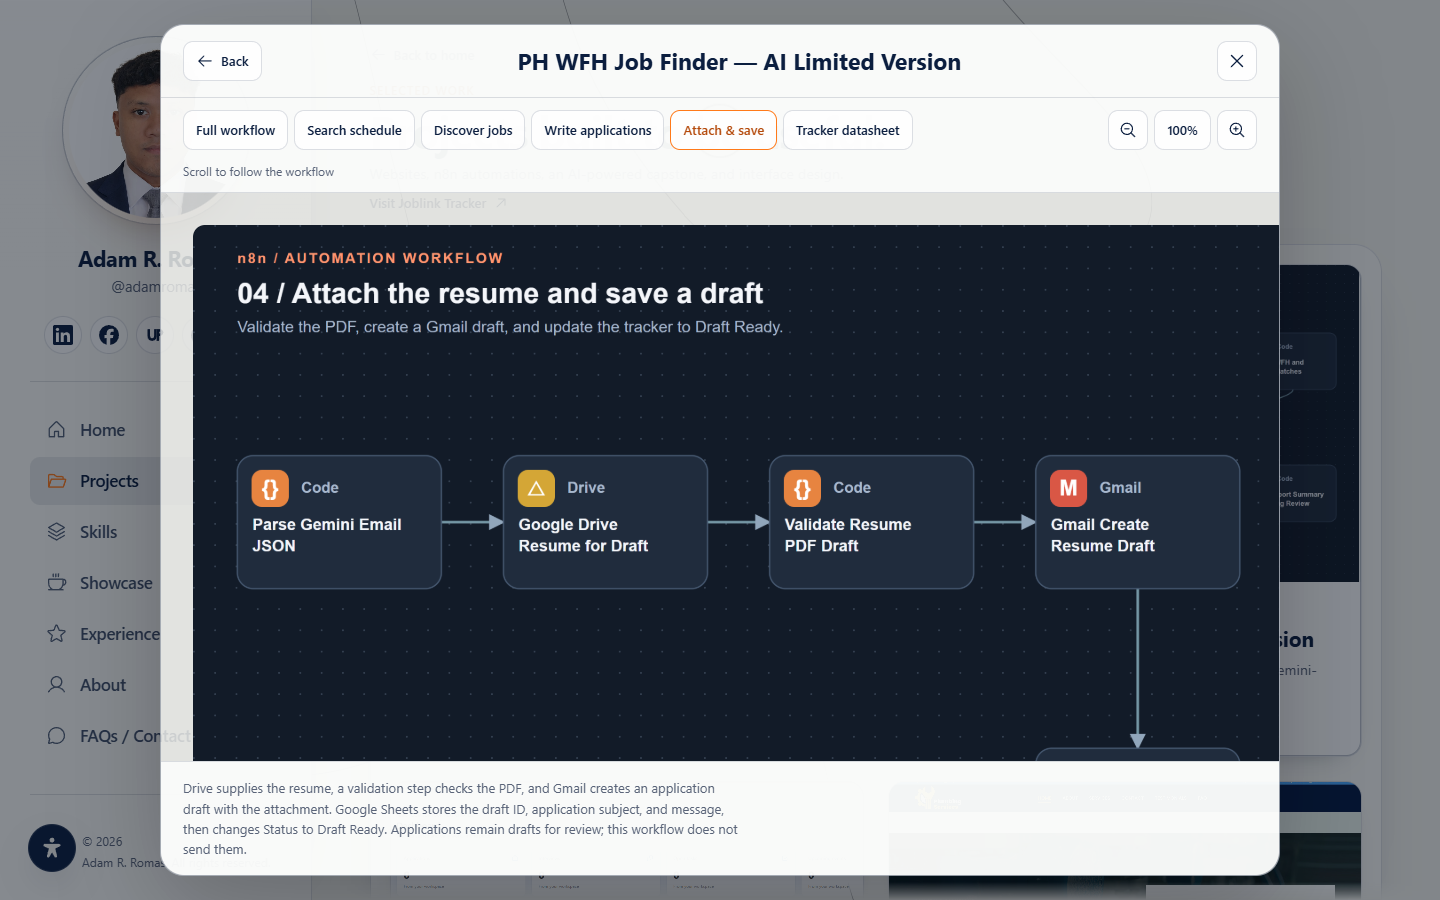
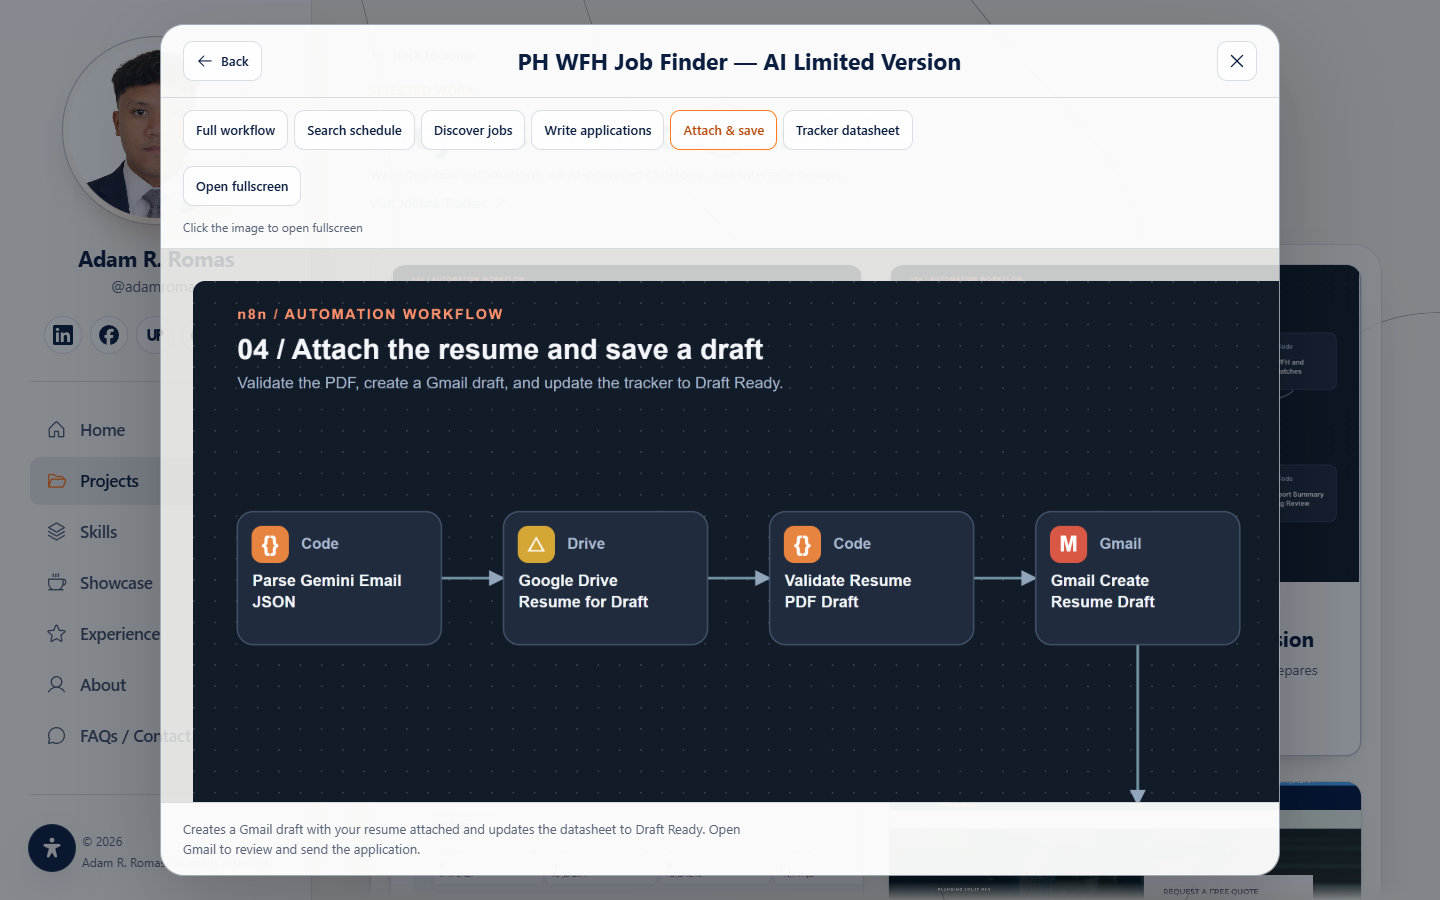
Add fullscreen image viewer with transparent backdrop and pointer zoom

diff --git a/src/components/ImageLightbox.tsx b/src/components/ImageLightbox.tsx
@@ -1,0 +1,203 @@
+import { useEffect, useLayoutEffect, useRef, useState } from 'react'
+import { createPortal } from 'react-dom'
+import { MagnifyingGlassMinus, MagnifyingGlassPlus, X } from '@/components/slab'
+
+const clampZoom = (value: number) => Math.min(8, Math.max(0.25, value))
+
+export default function ImageLightbox({
+  src,
+  alt,
+  title,
+  onClose,
+}: {
+  src: string
+  alt: string
+  title: string
+  onClose: () => void
+}) {
+  const dialogRef = useRef<HTMLDialogElement>(null)
+  const stageRef = useRef<HTMLDivElement>(null)
+  const imageRef = useRef<HTMLImageElement>(null)
+  const [width, setWidth] = useState(0)
+  const [zoom, setZoom] = useState(1)
+  const zoomRef = useRef(1)
+  const anchorRef = useRef<{ x: number; y: number; imageX: number; imageY: number } | null>(null)
+  const dragRef = useRef<{ x: number; y: number; left: number; top: number } | null>(null)
+  const imageGestureRef = useRef(false)
+
+  function changeZoom(value: number, x?: number, y?: number) {
+    const stage = stageRef.current!
+    const image = imageRef.current!
+    const rect = image.getBoundingClientRect()
+    const bounds = stage.getBoundingClientRect()
+    const next = clampZoom(value)
+    if (next === zoomRef.current || !rect.width) return
+    const pointX = x ?? bounds.left + bounds.width / 2
+    const pointY = y ?? bounds.top + bounds.height / 2
+    anchorRef.current = {
+      x: pointX,
+      y: pointY,
+      imageX: (pointX - rect.left) / rect.width,
+      imageY: (pointY - rect.top) / rect.height,
+    }
+    zoomRef.current = next
+    setZoom(next)
+  }
+
+  function resetZoom() {
+    anchorRef.current = null
+    zoomRef.current = 1
+    setZoom(1)
+    stageRef.current?.scrollTo({ left: 0, top: 0 })
+  }
+
+  useEffect(() => {
+    const dialog = dialogRef.current!
+    const trigger = document.activeElement as HTMLElement | null
+    dialog.showModal()
+    const stage = stageRef.current!
+    const measure = () => setWidth(Math.max(1, stage.clientWidth - 48))
+    measure()
+    const observer = new ResizeObserver(measure)
+    observer.observe(stage)
+    const wheel = (event: WheelEvent) => {
+      if (!event.ctrlKey && !event.metaKey) return
+      event.preventDefault()
+      changeZoom(zoomRef.current * Math.exp(-event.deltaY * 0.002), event.clientX, event.clientY)
+    }
+    dialog.addEventListener('wheel', wheel, { passive: false })
+    return () => {
+      observer.disconnect()
+      dialog.removeEventListener('wheel', wheel)
+      dialog.close()
+      trigger?.focus({ preventScroll: true })
+    }
+  }, [])
+
+  useLayoutEffect(() => {
+    const anchor = anchorRef.current
+    if (!anchor || !imageRef.current || !stageRef.current) return
+    const rect = imageRef.current.getBoundingClientRect()
+    stageRef.current.scrollLeft += rect.left + anchor.imageX * rect.width - anchor.x
+    stageRef.current.scrollTop += rect.top + anchor.imageY * rect.height - anchor.y
+    anchorRef.current = null
+  }, [zoom])
+
+  return createPortal(
+    <dialog
+      ref={dialogRef}
+      className="image-lightbox"
+      aria-label={`${title} fullscreen image`}
+      data-lenis-prevent
+      onCancel={(event) => {
+        event.preventDefault()
+        event.stopPropagation()
+        onClose()
+      }}
+    >
+      <div className="image-lightbox__controls">
+        <span className="image-lightbox__title">{title}</span>
+        <div className="image-lightbox__actions">
+          <button
+            className="preview-control preview-control--icon"
+            aria-label="Zoom out"
+            disabled={zoom <= 0.25}
+            onClick={() => changeZoom(zoomRef.current - 0.25)}
+          >
+            <MagnifyingGlassMinus size={20} />
+          </button>
+          <span className="image-lightbox__percentage" aria-live="polite">
+            {Math.round(zoom * 100)}%
+          </span>
+          <button
+            className="preview-control preview-control--icon"
+            aria-label="Zoom in"
+            disabled={zoom >= 8}
+            onClick={() => changeZoom(zoomRef.current + 0.25)}
+          >
+            <MagnifyingGlassPlus size={20} />
+          </button>
+          <button className="preview-control" onClick={resetZoom}>
+            Fit width
+          </button>
+          <button
+            className="preview-control preview-control--icon"
+            aria-label="Close fullscreen image"
+            autoFocus
+            onClick={onClose}
+          >
+            <X size={22} />
+          </button>
+        </div>
+      </div>
+      <div
+        ref={stageRef}
+        className="image-lightbox__stage"
+        tabIndex={0}
+        role="region"
+        aria-label="Zoomable fullscreen image"
+        onClick={(event) => {
+          if (imageGestureRef.current) {
+            imageGestureRef.current = false
+            return
+          }
+          if (
+            event.target === event.currentTarget ||
+            (event.target as HTMLElement).classList.contains('image-lightbox__canvas')
+          )
+            onClose()
+        }}
+        onPointerDown={(event) => {
+          if (
+            event.pointerType !== 'mouse' ||
+            event.button !== 0 ||
+            event.target !== imageRef.current
+          )
+            return
+          event.preventDefault()
+          imageGestureRef.current = true
+          dragRef.current = {
+            x: event.clientX,
+            y: event.clientY,
+            left: event.currentTarget.scrollLeft,
+            top: event.currentTarget.scrollTop,
+          }
+          event.currentTarget.setPointerCapture(event.pointerId)
+          event.currentTarget.dataset.dragging = 'true'
+        }}
+        onPointerMove={(event) => {
+          const drag = dragRef.current
+          if (drag)
+            event.currentTarget.scrollTo({
+              left: drag.left + drag.x - event.clientX,
+              top: drag.top + drag.y - event.clientY,
+            })
+        }}
+        onPointerUp={(event) => {
+          dragRef.current = null
+          delete event.currentTarget.dataset.dragging
+          if (event.currentTarget.hasPointerCapture(event.pointerId))
+            event.currentTarget.releasePointerCapture(event.pointerId)
+        }}
+        onLostPointerCapture={(event) => {
+          dragRef.current = null
+          delete event.currentTarget.dataset.dragging
+        }}
+      >
+        <div className="image-lightbox__canvas">
+          <img
+            ref={imageRef}
+            src={src}
+            alt={alt}
+            draggable={false}
+            style={{ width: width ? `${width * zoom}px` : '100%' }}
+          />
+        </div>
+      </div>
+      <p className="image-lightbox__hint">
+        Ctrl + scroll to zoom · Drag or scroll to explore · Esc to close
+      </p>
+    </dialog>,
+    document.body,
+  )
+}

diff --git a/src/components/ProjectPreview.tsx b/src/components/ProjectPreview.tsx
@@ -1,6 +1,7 @@
 import { useEffect, useRef, useState } from 'react'
 import { createPortal } from 'react-dom'
-import { ArrowLeft, ArrowUpRight, MagnifyingGlassMinus, MagnifyingGlassPlus, X } from '@/components/slab'
+import { ArrowLeft, ArrowUpRight, X } from '@/components/slab'
+import ImageLightbox from './ImageLightbox'
 import type { PortfolioProject } from '@/data/portfolio'
 import { SCROLLER_ID } from '@/hooks/useLenis'
 
@@ -8,7 +9,7 @@ export default function ProjectPreview({ project, onClose }: { project: Portfoli
   const dialogRef = useRef<HTMLDialogElement>(null)
   const stageRef = useRef<HTMLDivElement>(null)
   const [frame, setFrame] = useState(0)
-  const [zoom, setZoom] = useState(1)
+  const [fullscreen, setFullscreen] = useState(false)
   const gallery = project.gallery ?? [{ src: project.imageSrc!, alt: project.imageAlt ?? project.title, label: 'Preview' }]
   const previewWidth = gallery[frame].previewWidth ?? project.previewWidth
 
@@ -69,15 +70,11 @@ export default function ProjectPreview({ project, onClose }: { project: Portfoli
           <div className="project-preview__toolbar">
             <div className="project-preview__tabs" aria-label="Project views">
               {gallery.map((image, index) => (
-                <button key={image.src} className="preview-control" aria-pressed={frame === index} onClick={() => { setFrame(index); setZoom(1); stageRef.current?.scrollTo({ top: 0, left: 0 }) }}>{image.label}</button>
+                <button key={image.src} className="preview-control" aria-pressed={frame === index} onClick={() => { setFrame(index); stageRef.current?.scrollTo({ top: 0, left: 0 }) }}>{image.label}</button>
               ))}
             </div>
-            <div className="project-preview__zoom" aria-label="Image zoom">
-              <button className="preview-control preview-control--icon" aria-label="Zoom out" disabled={zoom <= 0.5} onClick={() => setZoom(z => Math.max(0.5, z - 0.25))}><MagnifyingGlassMinus size={18} /></button>
-              <button className="preview-control" aria-label="Reset image zoom" onClick={() => setZoom(1)}>{Math.round(zoom * 100)}%</button>
-              <button className="preview-control preview-control--icon" aria-label="Zoom in" disabled={zoom >= 2} onClick={() => setZoom(z => Math.min(2, z + 0.25))}><MagnifyingGlassPlus size={18} /></button>
-            </div>
-            {previewWidth && <span className="project-preview__pan-hint">Scroll to explore the image</span>}
+            <button className="preview-control" onClick={() => setFullscreen(true)}>Open fullscreen</button>
+            <span className="project-preview__pan-hint">Click the image to open fullscreen</span>
           </div>
         )}
         <div ref={stageRef} tabIndex={0} role="region" aria-label="Scrollable project preview" className={`project-preview__stage${project.gallery && project.title === 'Restaurant App' ? ' project-preview__stage--phone' : ''}`}>
@@ -86,8 +83,10 @@ export default function ProjectPreview({ project, onClose }: { project: Portfoli
               <iframe src={`https://www.youtube-nocookie.com/embed/${project.videoId}`} title={`${project.title} project demo`} referrerPolicy="strict-origin-when-cross-origin" allow="accelerometer; autoplay; encrypted-media; gyroscope; picture-in-picture; web-share" allowFullScreen />
             </div>
           ) : (
-            <div className="project-preview__image" style={{ width: previewWidth ? `${previewWidth * zoom}px` : `${zoom * 100}%`, maxWidth: project.title === 'Restaurant App' ? `${600 * zoom}px` : undefined }}>
-              <img src={gallery[frame].src} alt={gallery[frame].alt} />
+            <div className="project-preview__image" style={{ width: previewWidth ? `${previewWidth}px` : '100%', maxWidth: project.title === 'Restaurant App' ? '600px' : undefined }}>
+              <button className="project-preview__open-image" aria-label={`Open ${gallery[frame].label} image fullscreen`} onClick={() => setFullscreen(true)}>
+                <img src={gallery[frame].src} alt={gallery[frame].alt} />
+              </button>
             </div>
           )}
         </div>
@@ -96,6 +95,7 @@ export default function ProjectPreview({ project, onClose }: { project: Portfoli
           {project.external && <a className="preview-control" href={project.href} target="_blank" rel="noopener noreferrer">{project.linkLabel}<ArrowUpRight size={16} /></a>}
         </footer>
       </div>
+      {fullscreen && <ImageLightbox src={gallery[frame].src} alt={gallery[frame].alt} title={`${project.title} · ${gallery[frame].label}`} onClose={() => setFullscreen(false)} />}
     </dialog>,
     document.body,
   )

diff --git a/src/styles/portfolio-ui.css b/src/styles/portfolio-ui.css
@@ -97,6 +97,28 @@
 .project-preview__stage:focus-visible { outline: 2px solid var(--orange); outline-offset: -3px; }
 .project-preview__image { max-width: none; margin-inline: auto; }
 .project-preview__image img { display: block; width: 100%; height: auto; max-width: none; border-radius: 12px; }
+.project-preview__open-image { display: block; width: 100%; padding: 0; border: 0; background: transparent; cursor: zoom-in; }
+.project-preview__open-image:focus-visible { outline: 3px solid var(--orange); outline-offset: 4px; border-radius: 12px; }
+.image-lightbox { position: fixed; inset: 0; width: 100vw; height: 100dvh; max-width: none; max-height: none; margin: 0; padding: 0; border: 0; border-radius: 0; background: transparent; color: white; overflow: hidden; }
+.image-lightbox::backdrop { background: rgba(7, 15, 30, .64); }
+.image-lightbox__stage { position: absolute; inset: 0; overflow: auto; padding: 84px 24px 52px; overscroll-behavior: contain; touch-action: pan-x pan-y; }
+.image-lightbox__stage:focus-visible { outline: 2px solid var(--orange); outline-offset: -3px; }
+.image-lightbox__canvas { width: max-content; min-width: 100%; min-height: 100%; display: flex; justify-content: center; align-items: flex-start; }
+.image-lightbox__canvas img { display: block; height: auto; max-width: none; flex: none; align-self: flex-start; cursor: grab; user-select: none; }
+.image-lightbox__stage[data-dragging='true'] img { cursor: grabbing; }
+.image-lightbox__controls { position: absolute; z-index: 1; top: 12px; left: 50%; transform: translateX(-50%); display: flex; align-items: center; gap: 20px; justify-content: space-between; width: min(1040px, calc(100% - 24px)); padding: 10px 14px; border-radius: 16px; background: rgba(13, 24, 42, .88); box-shadow: 0 8px 30px rgba(0, 0, 0, .18); }
+.image-lightbox__title { min-width: 0; overflow: hidden; text-overflow: ellipsis; white-space: nowrap; font-size: 14px; font-weight: 600; }
+.image-lightbox__actions { display: flex; gap: 8px; align-items: center; flex: none; }
+.image-lightbox .preview-control { background: rgba(255, 255, 255, .1); color: white; border-color: rgba(255, 255, 255, .25); }
+.image-lightbox .preview-control:hover { background: rgba(255, 255, 255, .2); }
+.image-lightbox__percentage { min-width: 48px; text-align: center; font-size: 13px; font-variant-numeric: tabular-nums; }
+.image-lightbox__hint { position: absolute; z-index: 1; bottom: 12px; left: 50%; transform: translateX(-50%); max-width: calc(100% - 24px); margin: 0; padding: 8px 14px; border-radius: 12px; background: rgba(13, 24, 42, .88); color: white; font-size: 12px; text-align: center; pointer-events: none; }
+@media (max-width: 639px) {
+  .image-lightbox__controls { flex-direction: column; gap: 6px; padding: 8px; }
+  .image-lightbox__title { max-width: 100%; font-size: 12px; }
+  .image-lightbox__stage { padding-top: 108px; }
+  .image-lightbox__hint { width: max-content; font-size: 11px; }
+}
 .project-preview__footer { display: flex; flex: none; align-items: center; justify-content: space-between; gap: 20px; padding: 16px 22px; border-top: 1px solid var(--line); background: var(--surface-card); }
 .project-preview__footer p { max-width: 80ch; font-size: 13px; line-height: 1.55; color: var(--muted); }
 @media (max-width: 639px) {

diff --git a/README.md b/README.md
@@ -9,6 +9,7 @@ Adam R. Romas's personal portfolio, focused on AI engineering, n8n automation, w
 - Accessibility controls for enlarged text, high contrast, reduced motion, and underlined links.
 - Colored tool icons, including Vercel for project deployment.
 - Project galleries with back/close controls, zoom, and scroll restoration.
+- Click any gallery image to open a fullscreen viewer with a translucent backdrop, zoom buttons, Ctrl/Cmd + scroll zoom, drag-to-pan, and Fit width. Close with Escape, the close button, or the background to return to the same gallery image.
 - HD workflow diagrams and explanations derived from n8n exports.
 - FU Media demo video, 5S Plumbing website, restaurant app designs, and pet shop business card.
 - Resume download and LinkedIn, Facebook, Upwork, and GitHub links.
